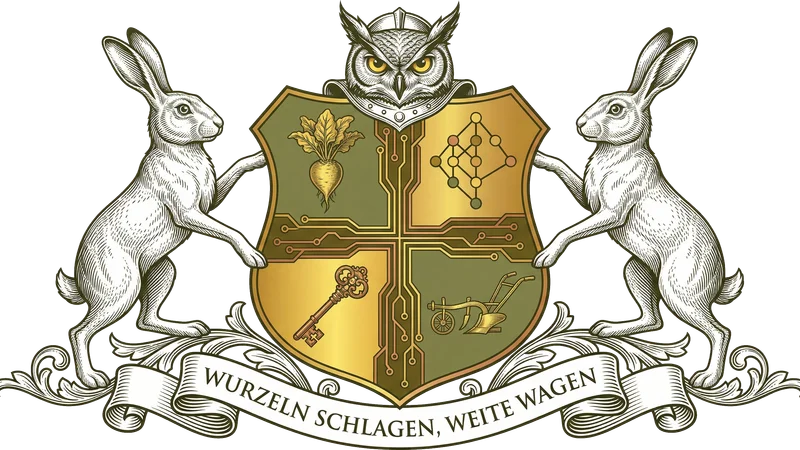
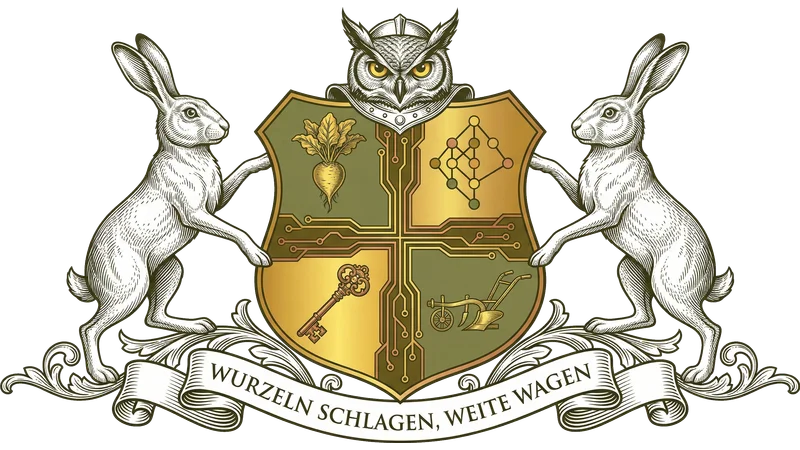
Fix hero image transparency preservation
Update image optimization to properly preserve transparency:

CHANGES:
✓ Updated optimize-images.js to use 'contain' fit mode
✓ Added transparent background: rgba(0,0,0,0)
✓ Enabled alphaQuality for WebP
✓ Regenerated hero images with transparency

IMAGE SIZES:
- hero.webp: 107.8KB (transparency preserved)
- hero.png: 520.6KB (PNG fallback with alpha)
- Total reduction: 97% from original 70MB

The transparent wappen now displays beautifully with the semi-transparent
background showing through, creating a sophisticated layered effect on
the landing page.

diff --git a/scripts/optimize-images.js b/scripts/optimize-images.js
@@ -33,21 +33,21 @@ async function optimizeImages() {
   console.log('Starting image optimization...\n');
 
   try {
-    // Process hero image
+    // Process hero image (preserve transparency with contain fit)
     const heroSrc = path.join(wappenDir, variations[0]);
-    console.log(`📸 Processing hero image: ${variations[0]}`);
+    console.log(`📸 Processing hero image: ${variations[0]} (preserving transparency)`);
 
     await sharp(heroSrc)
-      .resize(800, 450, { fit: 'cover', position: 'center' })
-      .webp({ quality: 85 })
+      .resize(800, 450, { fit: 'contain', background: { r: 0, g: 0, b: 0, alpha: 0 } })
+      .webp({ quality: 85, alphaQuality: 100 })
       .toFile(path.join(publicWappenDir, 'hero.webp'));
 
     await sharp(heroSrc)
-      .resize(800, 450, { fit: 'cover', position: 'center' })
-      .png({ quality: 85 })
+      .resize(800, 450, { fit: 'contain', background: { r: 0, g: 0, b: 0, alpha: 0 } })
+      .png()
       .toFile(path.join(publicWappenDir, 'hero.png'));
 
-    console.log('   ✓ hero.webp & hero.png created\n');
+    console.log('   ✓ hero.webp & hero.png created (with transparency)\n');
 
     // Process gallery images
     const galleryVariations = variations.slice(1); // All except hero
